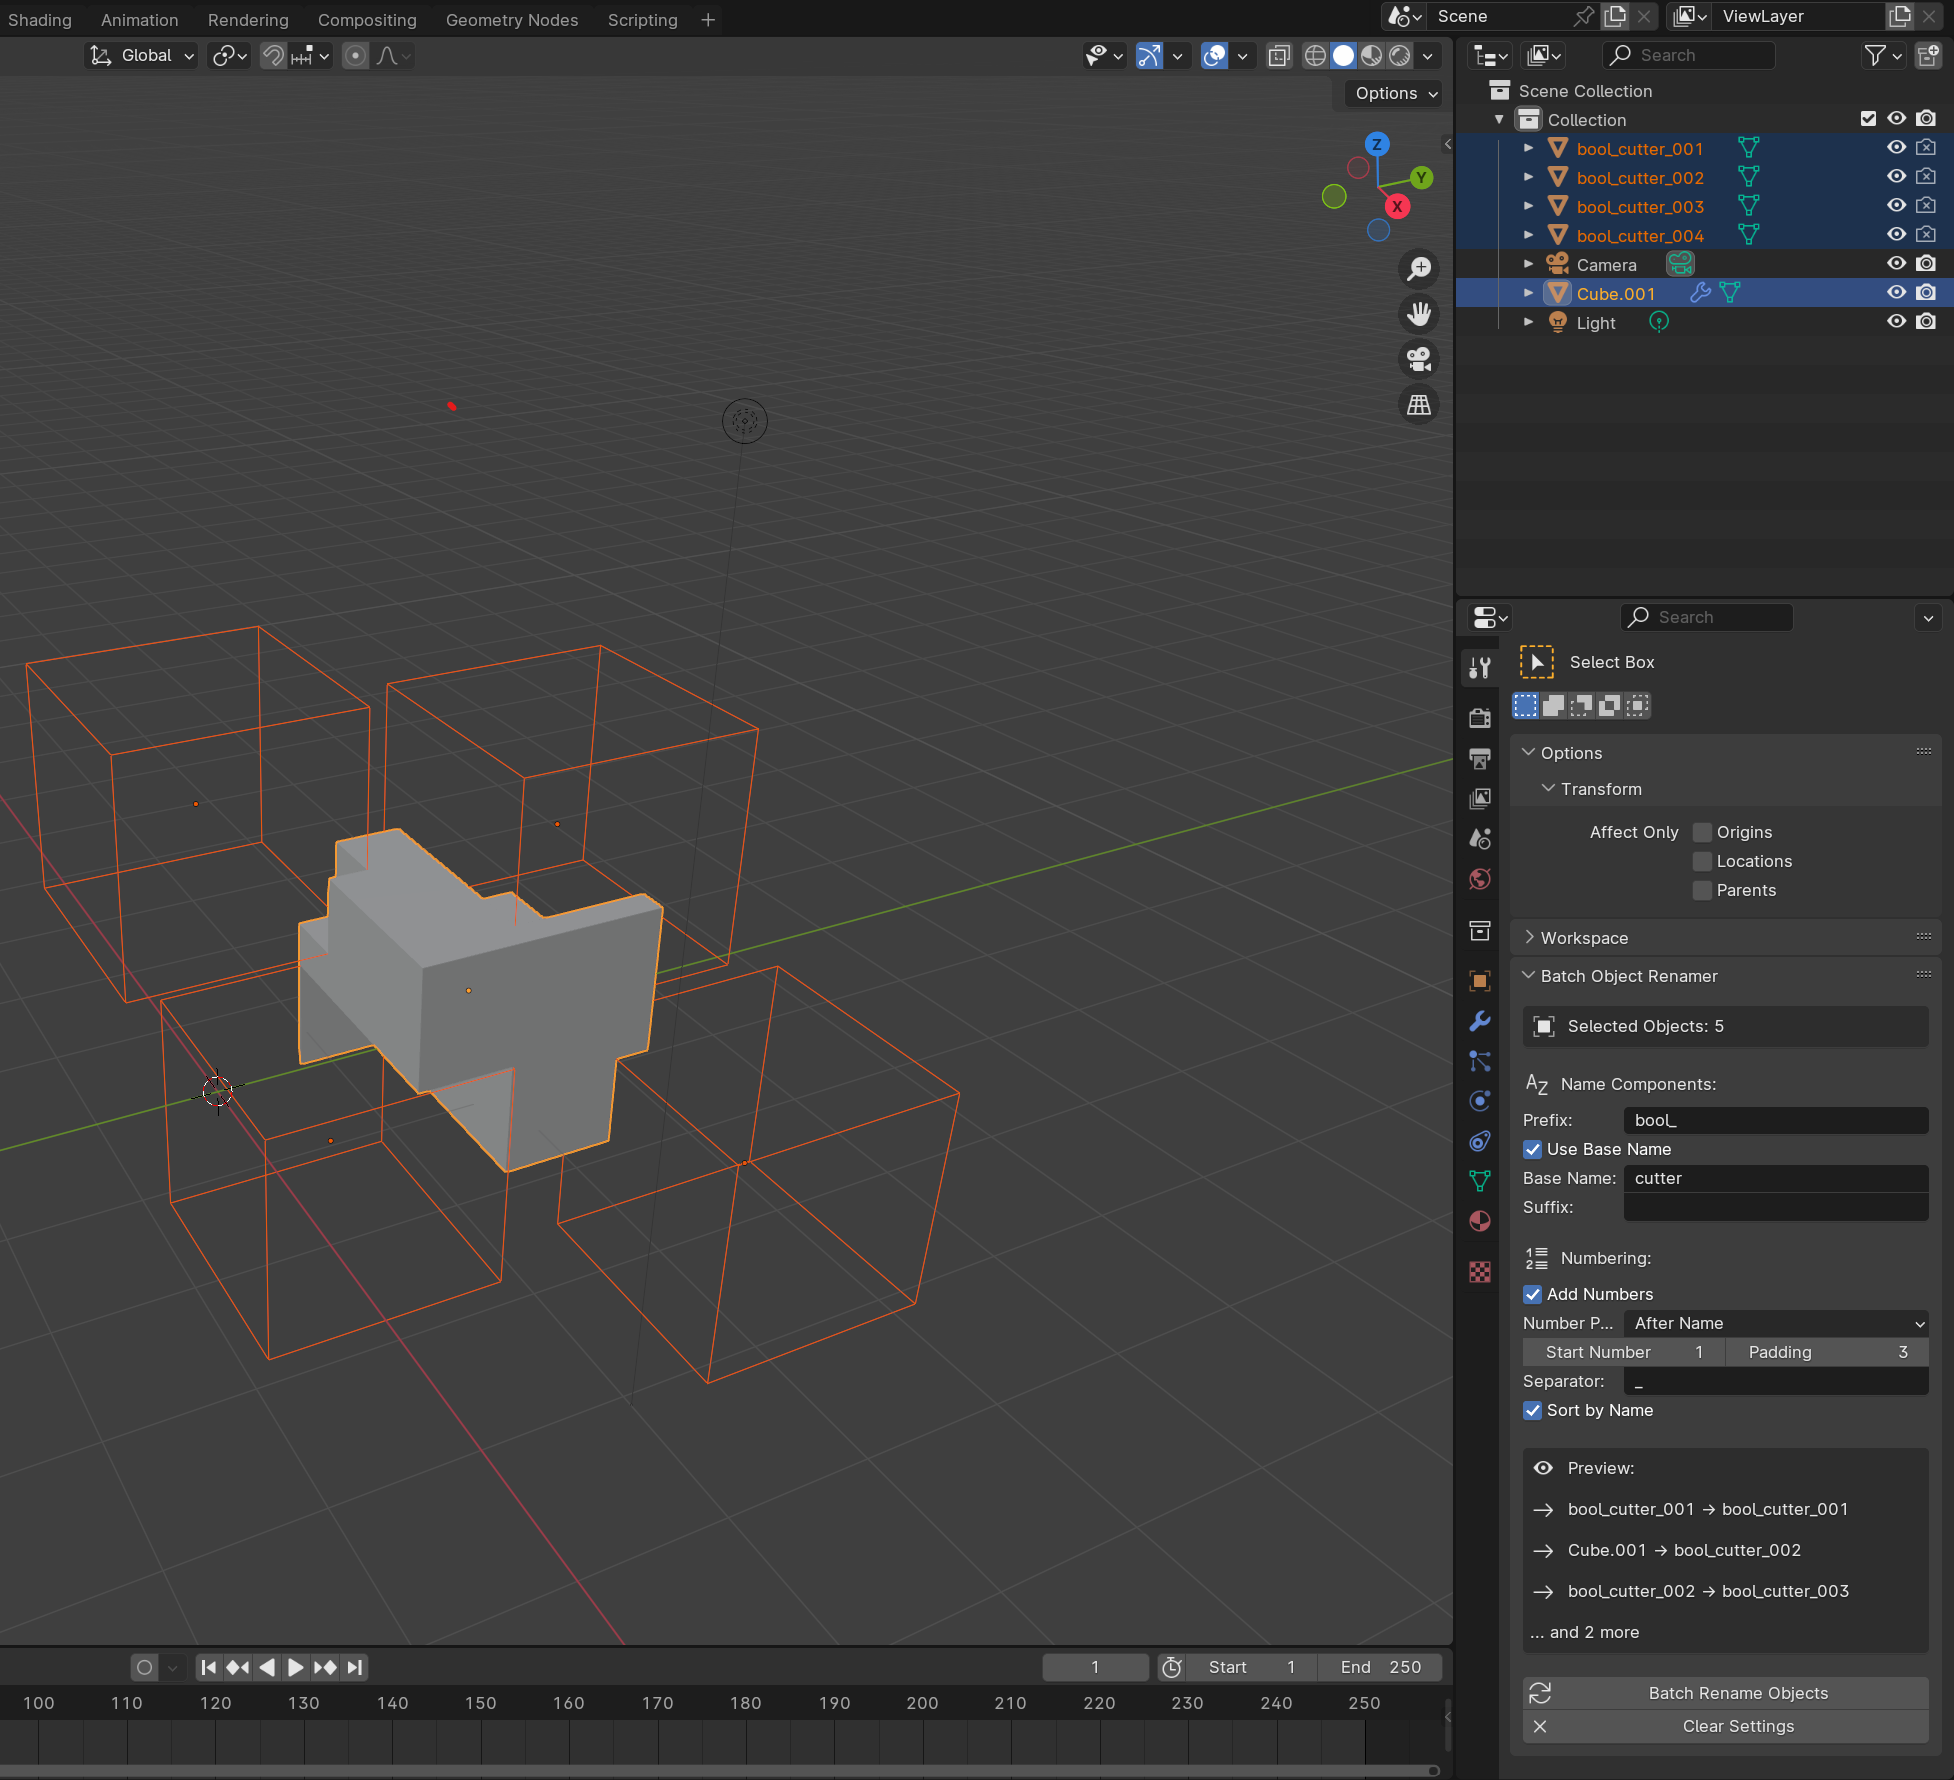
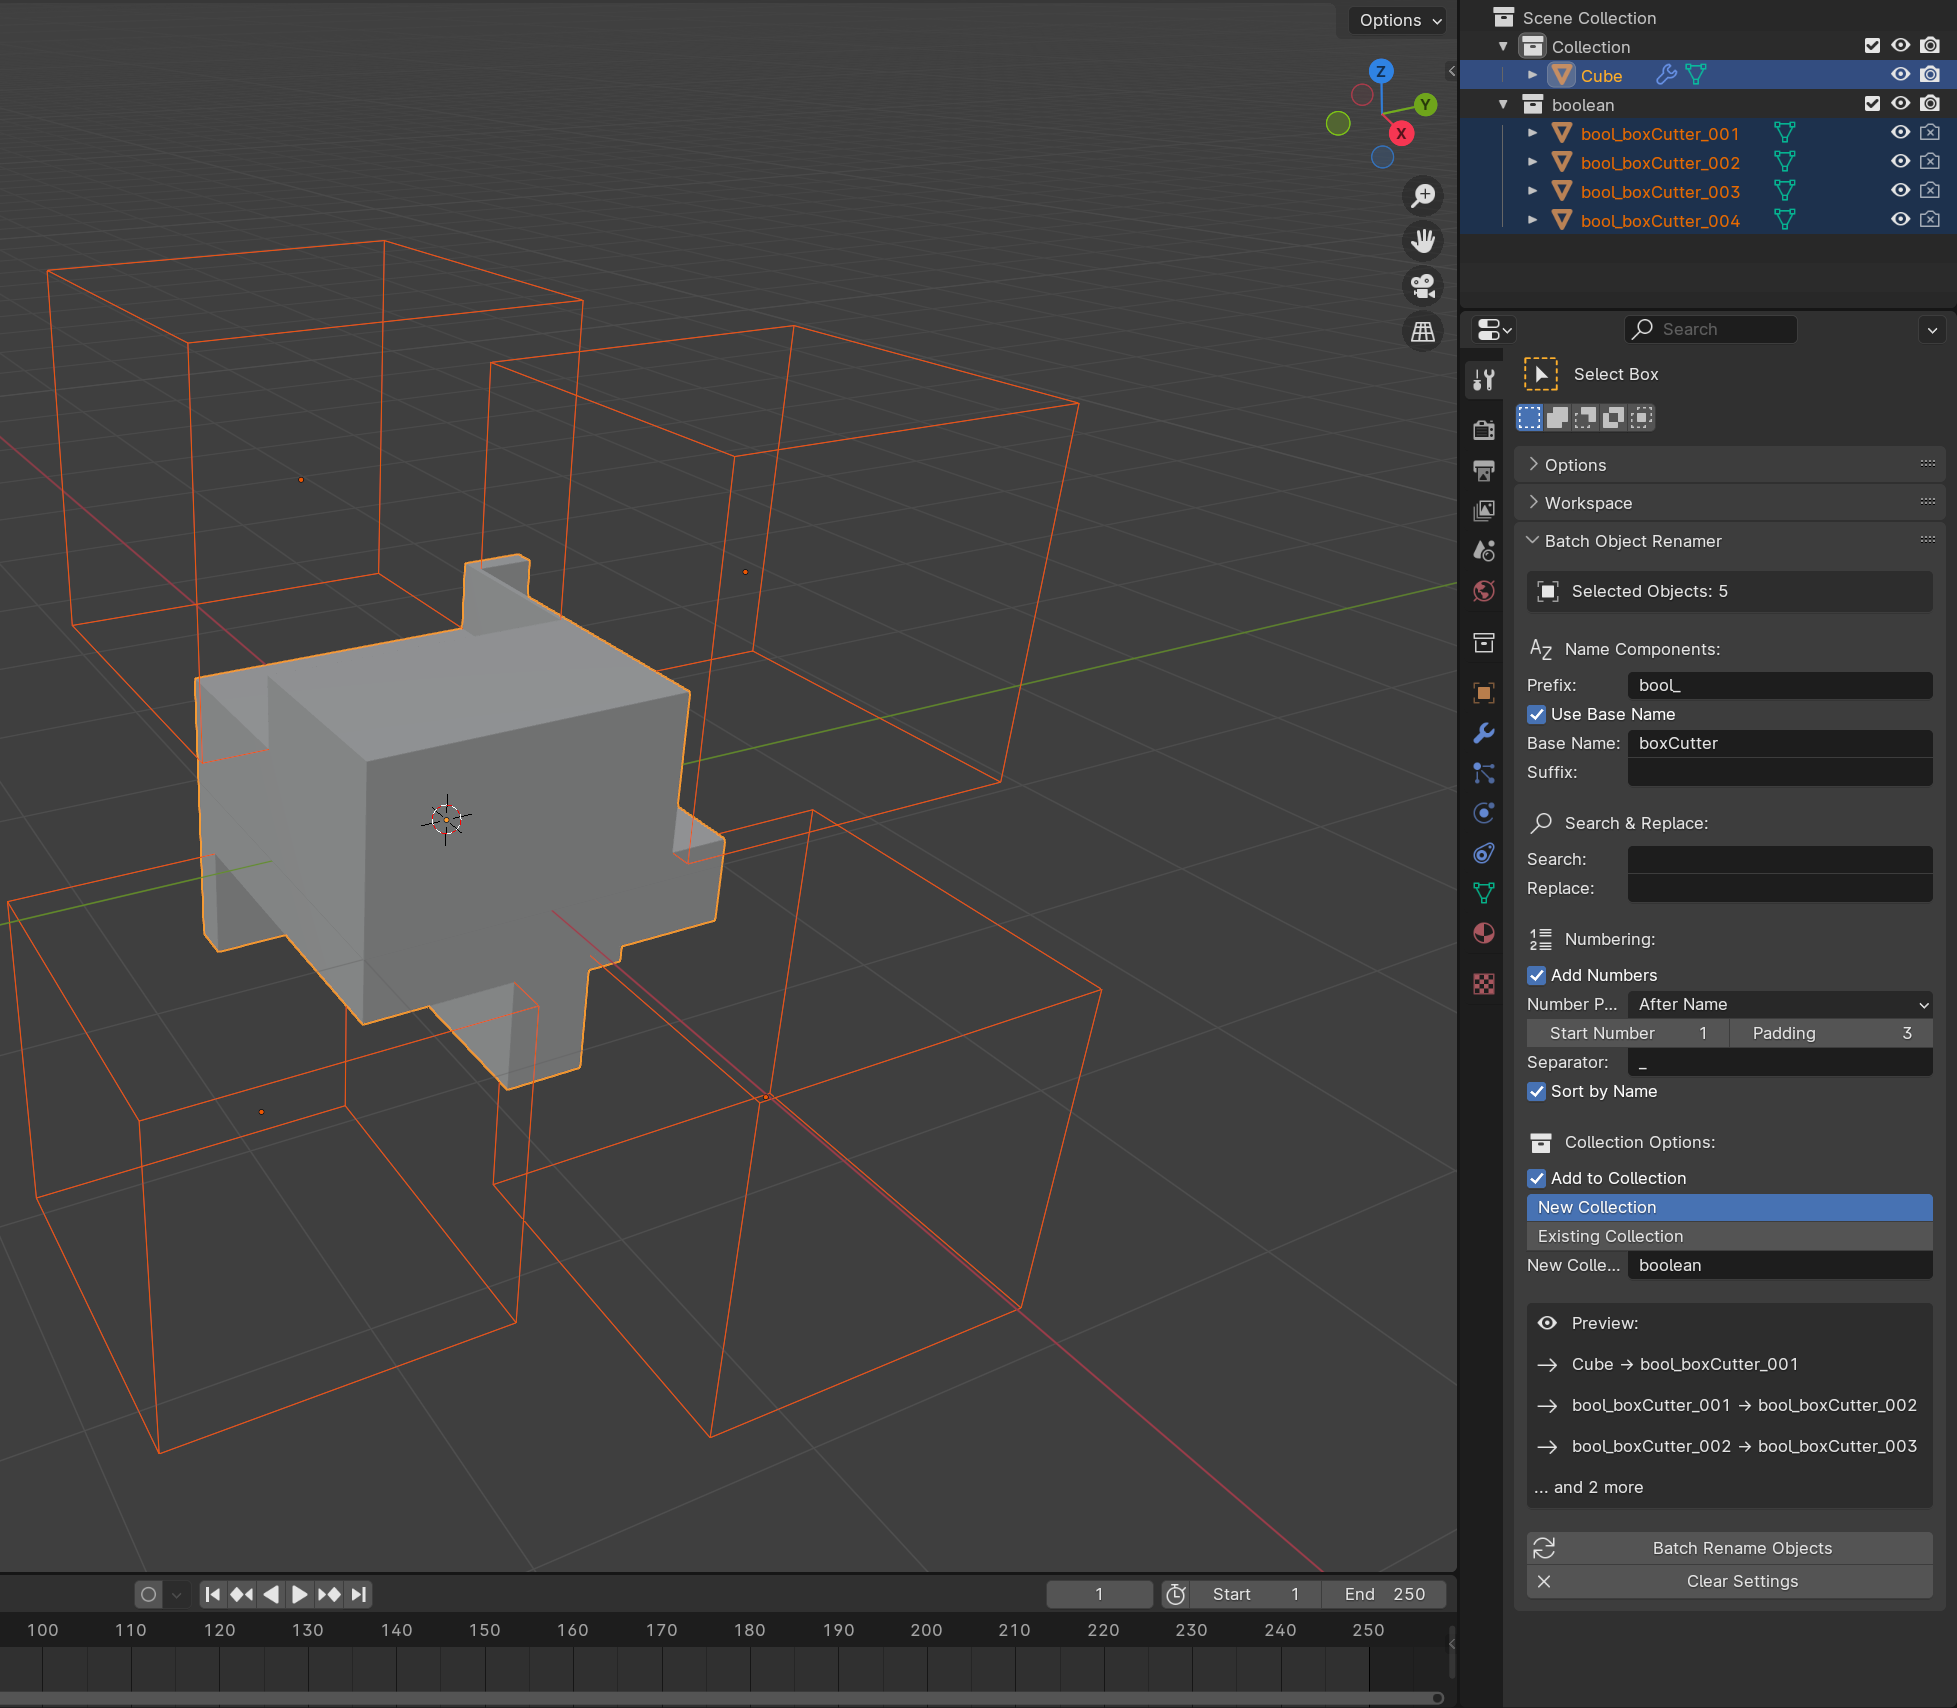
commit

diff --git a/batch_rename.py b/batch_rename.py
@@ -1,10 +1,10 @@
 bl_info = {
     "name": "Batch Rename",
     "author": "Josh T",
-    "version": (0, 0, 2),
+    "version": (1, 0, 0),
     "blender": (4, 1, 0),
     "location": "View3D > Sidebar > Tool Tab",
-    "description": "Batch rename selected objects with prefixes, suffixes, and numbering",
+    "description": "Batch rename selected objects with prefixes, suffixes, numbering, and collection assignment",
     "category": "Object"
 }
 
@@ -42,8 +42,24 @@ class OBJECT_OT_batch_rename(Operator):
         suffix = props.suffix
         base_name = props.base_name
         
+        target_collection = None
+        if props.add_to_collection:
+            if props.collection_option == 'NEW':
+                collection_name = props.new_collection_name if props.new_collection_name else "Renamed_Objects"
+                target_collection = bpy.data.collections.new(collection_name)
+                context.scene.collection.children.link(target_collection)
+            else:  
+                if props.existing_collection:
+                    target_collection = bpy.data.collections.get(props.existing_collection)
+                    if not target_collection:
+                        self.report({'WARNING'}, f"Collection '{props.existing_collection}' not found")
+                        return {'CANCELLED'}
+        
+        renamed_objects = []
+        
         for i, obj in enumerate(selected_objects):
             new_name = ""
+            original_name = obj.name
             
             if prefix:
                 new_name += prefix
@@ -51,7 +67,6 @@ class OBJECT_OT_batch_rename(Operator):
             if use_base_name and base_name:
                 new_name += base_name
             elif not use_base_name:
-                original_name = obj.name
                 if remove_numbers:
                     original_name = NUMBER_PATTERN.sub('', original_name)
                 new_name += original_name
@@ -65,10 +80,29 @@ class OBJECT_OT_batch_rename(Operator):
             
             if suffix:
                 new_name += suffix
+                
+            if props.search_pattern:
+                try:
+                    new_name = re.sub(props.search_pattern, props.replace_pattern, new_name)
+                except re.error:
+                    self.report({'WARNING'}, "Invalid search pattern")
+                    return {'CANCELLED'}
+            
             if new_name and new_name != obj.name:
                 obj.name = new_name
+                renamed_objects.append(obj)
+        
+        if target_collection and renamed_objects:
+            for obj in renamed_objects:
+                if obj.name not in target_collection.objects:
+                    for coll in obj.users_collection:
+                        if coll != context.scene.collection:
+                            coll.objects.unlink(obj)
+                    target_collection.objects.link(obj)
         
         self.report({'INFO'}, f"Renamed {len(selected_objects)} objects")
+        if target_collection:
+            self.report({'INFO'}, f"Added to collection: {target_collection.name}")
         return {'FINISHED'}
 
 
@@ -90,8 +124,32 @@ class OBJECT_OT_clear_rename_settings(Operator):
         props.number_position = 'SUFFIX'
         props.remove_numbers = False
         props.sort_by_name = True
+        props.search_pattern = ""
+        props.replace_pattern = ""
+        props.add_to_collection = False
+        props.collection_option = 'NEW'
+        props.new_collection_name = "Renamed_Objects"
+        props.existing_collection = ""
         return {'FINISHED'}
 
+#####-----Properties-----#####
+# Prefix
+# Suffix
+# searh_pattern
+# replace_pattern
+# base_name
+# use_base_name
+# add_numbers
+# start_number
+# padding
+# number_separator
+# number_position
+# remove_numbers
+# sort_by_name
+# add_to_collection
+# collection_options
+# new_collection name
+# existing collection
 
 class BatchRenameProperties(PropertyGroup):
     prefix: StringProperty(
@@ -103,6 +161,18 @@ class BatchRenameProperties(PropertyGroup):
     suffix: StringProperty(
         name="Suffix",
         description="Text to add after object names",
+        default="",
+    )
+    
+    search_pattern: StringProperty(
+        name="Search",
+        description="Text pattern to search for in object names",
+        default="",
+    )
+    
+    replace_pattern: StringProperty(
+        name="Replace",
+        description="Text to replace found patterns with",
         default="",
     )
     
@@ -167,6 +237,34 @@ class BatchRenameProperties(PropertyGroup):
         description="Sort objects alphabetically before numbering",
         default=True,
     )
+    
+    add_to_collection: BoolProperty(
+        name="Add to Collection",
+        description="Add renamed objects to a collection",
+        default=False,
+    )
+    
+    collection_option: EnumProperty(
+        name="Collection Option",
+        description="Choose whether to create a new collection or use an existing one",
+        items=[
+            ('NEW', 'New Collection', 'Create a new collection for the renamed objects'),
+            ('EXISTING', 'Existing Collection', 'Add to an existing collection'),
+        ],
+        default='NEW',
+    )
+    
+    new_collection_name: StringProperty(
+        name="New Collection Name",
+        description="Name for the new collection",
+        default="Renamed_Objects",
+    )
+    
+    existing_collection: StringProperty(
+        name="Existing Collection",
+        description="Name of existing collection to add objects to",
+        default="",
+    )
 
 
 class VIEW3D_PT_batch_renamer(Panel):
@@ -204,6 +302,13 @@ class VIEW3D_PT_batch_renamer(Panel):
         
         col.prop(props, "suffix")
 
+        # Search and replace
+        layout.separator()
+        layout.label(text="Search & Replace:", icon='VIEWZOOM')
+        col = layout.column(align=True)
+        col.prop(props, "search_pattern")
+        col.prop(props, "replace_pattern")
+
         layout.separator()
         layout.label(text="Numbering:", icon='LINENUMBERS_ON')
         
@@ -220,7 +325,23 @@ class VIEW3D_PT_batch_renamer(Panel):
             col.prop(props, "number_separator")
             col.prop(props, "sort_by_name")
 
+        # Collection options
+        layout.separator()
+        layout.label(text="Collection Options:", icon='OUTLINER_COLLECTION')
+        col = layout.column(align=True)
+        col.prop(props, "add_to_collection")
+        
+        if props.add_to_collection:
+            col.prop(props, "collection_option", expand=True)
+            
+            if props.collection_option == 'NEW':
+                col.prop(props, "new_collection_name")
+            else: 
+                row = col.row(align=True)
+                row.prop_search(props, "existing_collection", bpy.data, "collections", text="Collection")
+                row.operator("object.refresh_collections", text="", icon='FILE_REFRESH')
     
+        # Preview
         if selected_count > 0:
             layout.separator()
             box = layout.box()
@@ -265,14 +386,30 @@ class VIEW3D_PT_batch_renamer(Panel):
         if props.suffix:
             new_name += props.suffix
         
+        if props.search_pattern:
+            try:
+                new_name = re.sub(props.search_pattern, props.replace_pattern, new_name)
+            except re.error:
+                pass  
+        
         return new_name if new_name else obj.name
 
 
-# Registration
+class OBJECT_OT_refresh_collections(Operator):
+    bl_idname = "object.refresh_collections"
+    bl_label = "Refresh Collections"
+    bl_options = {'REGISTER', 'UNDO'}
+    
+    def execute(self, context):
+        self.report({'INFO'}, "Collection list refreshed")
+        return {'FINISHED'}
+
+
 classes = (
     BatchRenameProperties,
     OBJECT_OT_batch_rename,
     OBJECT_OT_clear_rename_settings,
+    OBJECT_OT_refresh_collections,
     VIEW3D_PT_batch_renamer,
 )
 
@@ -282,21 +419,25 @@ def register():
     except:
         pass
     
+    if hasattr(bpy.types.Scene, 'batch_renamer_props'):
+        try:
+            del bpy.types.Scene.batch_renamer_props
+        except:
+            pass
+    
     for cls in classes:
         try:
             bpy.utils.register_class(cls)
-        except:
-            print(f"Failed to register {cls}")
-    
-    if not hasattr(bpy.types.Scene, 'batch_renamer_props'):
-        bpy.types.Scene.batch_renamer_props = bpy.props.PointerProperty(type=BatchRenameProperties)
+        except Exception as e:
+            print(f"Failed to register {cls}: {e}")
+    bpy.types.Scene.batch_renamer_props = bpy.props.PointerProperty(type=BatchRenameProperties)
 
 def unregister():
     for cls in reversed(classes):
         try:
             bpy.utils.unregister_class(cls)
         except:
-            print(f"Failed to unregister {cls}")
+            pass
     
     if hasattr(bpy.types.Scene, 'batch_renamer_props'):
         try:

diff --git a/readme.md b/readme.md
@@ -1,13 +1,12 @@
-# BL_batch_rename
+# Blender batch rename
 
 [![License: MIT](https://img.shields.io/badge/License-MIT-yellow.svg)](https://opensource.org/licenses/MIT)
 [![Python](https://img.shields.io/badge/Python-3.6%2B-blue)](https://www.python.org/)
 
 Blender plugin to batch rename objects and add prefixes, postfixes, numbering, padding and seperators
 Simplifies the process of renaming objects in bulk and increases productivity while working with large scenes in Blender.
+Can now also add renamed objects to a new or existing group. With this Im calling it feature complete 1.0 as I dont know what can be added really
 
-
-In the future will add the ability to automatically add renamed objects to new group
 
 ## Installation
     1. Download the batch_rename.py file.
